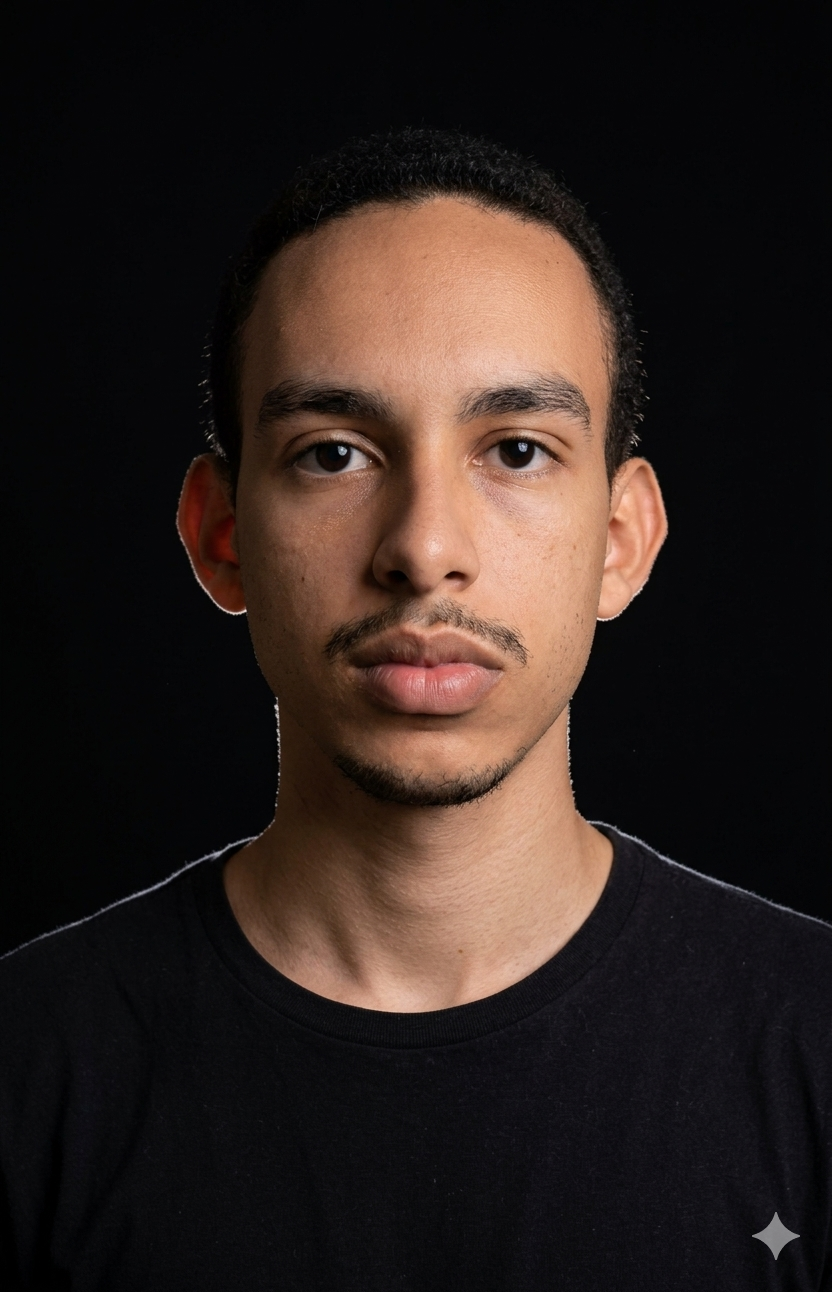
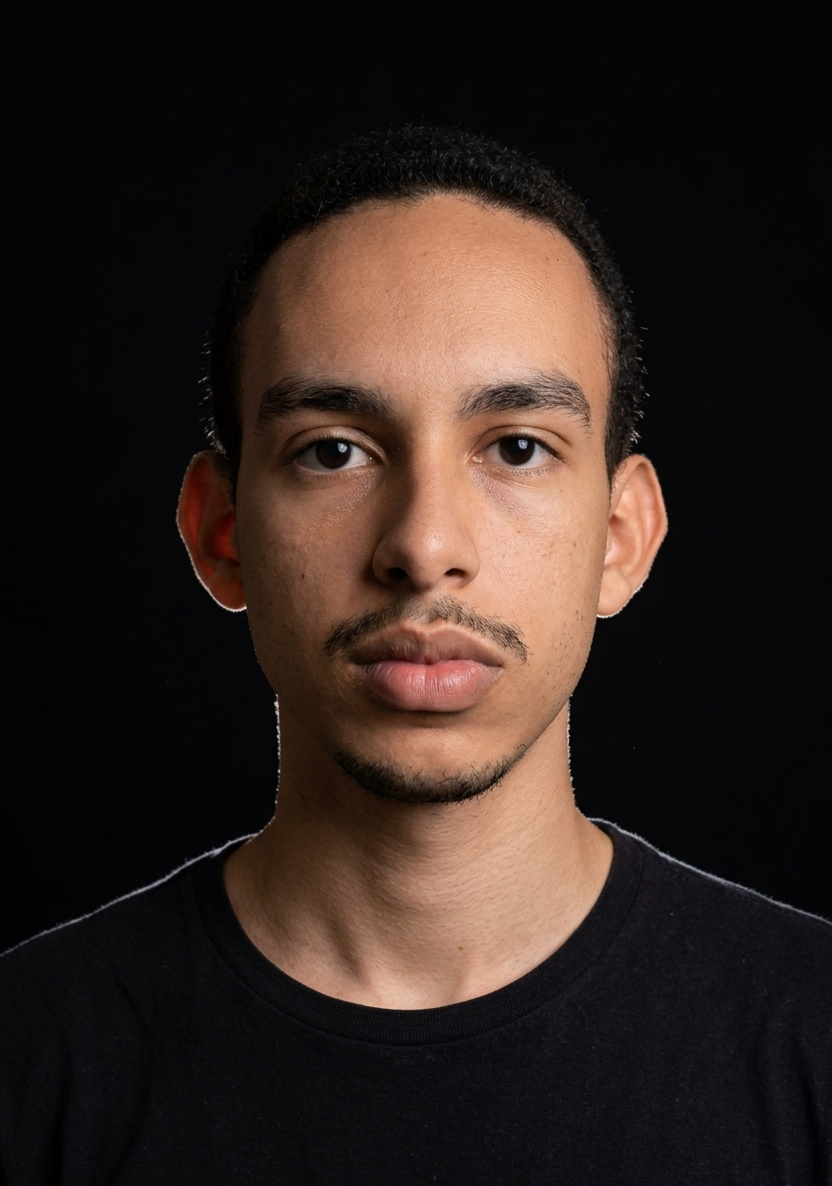
Adição de projetos e linguagens de programação

diff --git a/index.html b/index.html
@@ -68,6 +68,8 @@
                 <img loading="lazy" src="https://img.icons8.com/?size=100&id=20909&format=png&color=000000" alt="html5">
                 <img loading="lazy" src="https://img.icons8.com/?size=100&id=21278&format=png&color=000000" alt="css3">
                 <img loading="lazy" src="https://img.icons8.com/?size=100&id=108784&format=png&color=000000" alt="JavaScript">
+                <img loading="lazy" src="https://img.icons8.com/?size=100&id=13441&format=png&color=000000" alt="Python">
+                <img loading="lazy" src="https://img.icons8.com/?size=100&id=hYoELNwniGhi&format=png&color=000000" alt="MySQL">
             </div>
             <button id="cta">Peça já seu orçamento!</button>
         </section>
@@ -85,6 +87,16 @@
         <section class="carousel-container">
             <button class="prev">&#10094;</button>
             <div class="carousel">
+                <div class="c-card">
+                    <img loading="lazy" class="carousel-img" src="img/software epi.png" alt="Imagem do projeto de gestão de EPIs">
+                    <div class="c-desc">
+                        <h3>Web APP de gestão de epis</h3>
+                        <h5>Sistema web completo para gestão de EPIs e controle de funcionários, desenvolvido com Flask no backend e SQLite/MySQL como banco de dados, com suporte a variáveis de ambiente (.env) para configuração segura. A aplicação permite cadastro, atualização e gerenciamento de funcionários, EPIs e registros de entrega, com interface web construída em HTML, CSS e JavaScript.</h5>
+                        <a class="c-link" href="https://github.com/lucimaraalvesramalho/Software-EPI">Ver código ➜</a>
+                        <br>
+                        <a class="c-link" href="https://github.com/BlackGhostt6/software-gestao-epi-offline/releases/tag/v1.0.0">Testar App (versão offline) ➜</a>
+                    </div>
+                </div>
                 <div class="c-card">
                     <img loading="lazy" class="carousel-img" src="img/alura.png" alt="Imagem do site feito para alura">
                     <div class="c-desc">

diff --git a/style.css b/style.css
@@ -100,6 +100,7 @@ footer{
     display: flex;
     flex-direction: row;
     align-items: center;
+    margin-left: 1%;
 
 }
 
@@ -228,8 +229,8 @@ footer{
 
 nav{
     position: absolute;
-    right:10px;
-    padding-top: 1.5%;
+    right:2%;
+    padding-top: 1.9%;
     font-size: larger;
 }
 

diff --git a/script.js b/script.js
@@ -48,7 +48,7 @@ const prev = document.querySelector('.prev');
 const next = document.querySelector('.next');
 
 let scrollAmount = 0;
-const cardWidth = 550;
+const cardWidth = 750;
 
 next.addEventListener('click', () => {
   scrollAmount += cardWidth;
